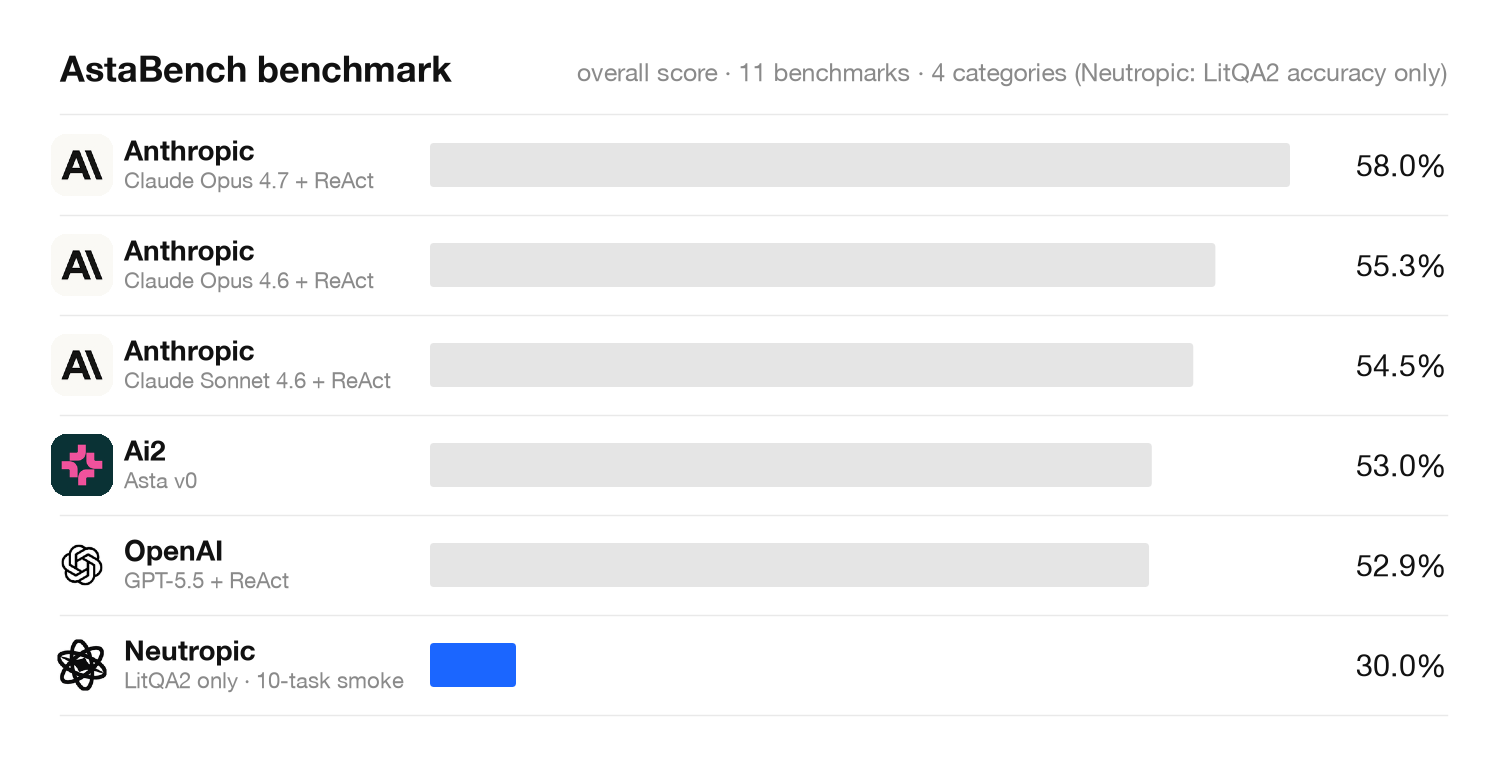
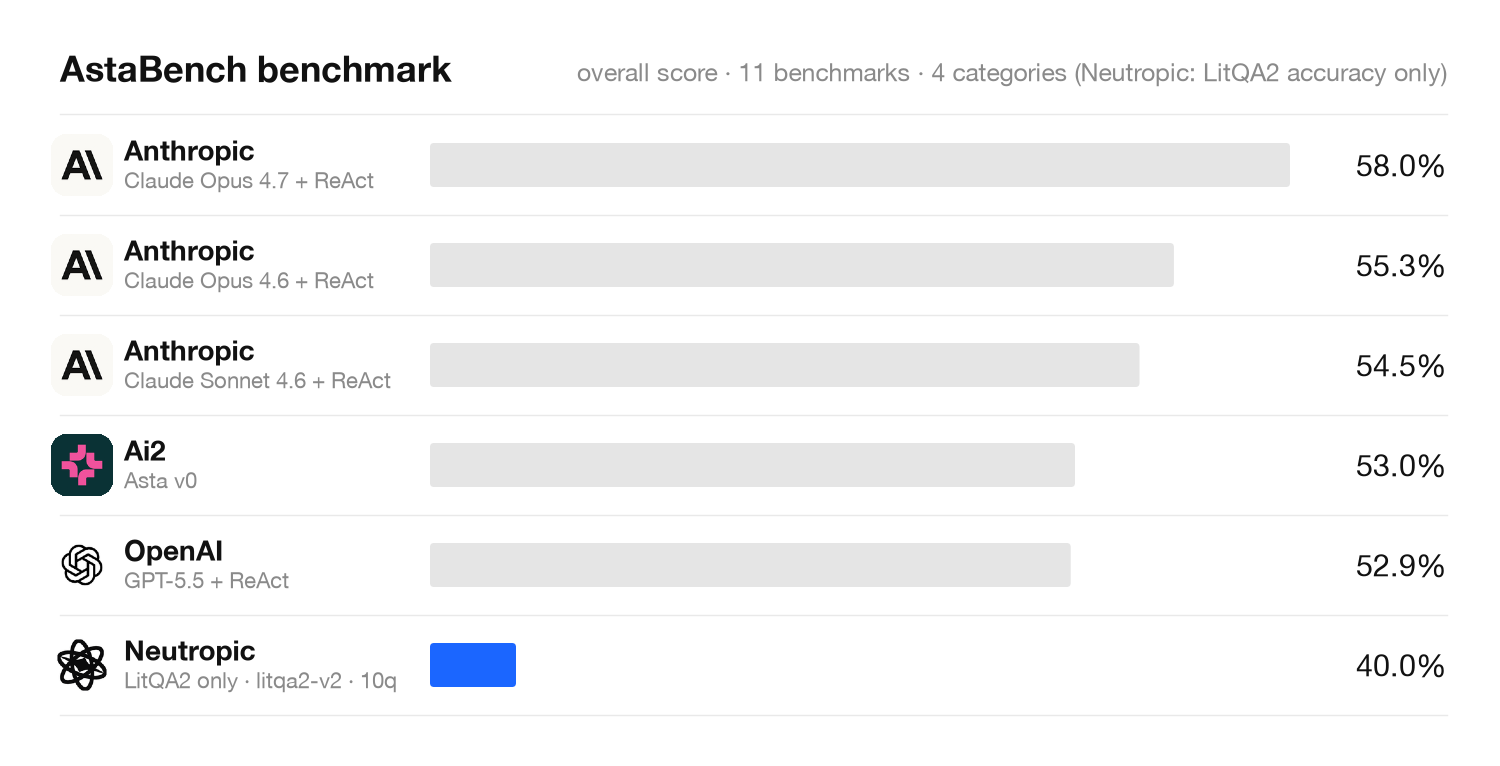
Add AstaBench Results

diff --git a/astabench/results/litqa2-v2/README.md b/astabench/results/litqa2-v2/README.md
@@ -1,0 +1,22 @@
+# litqa2-v2 — 10-question smoke (custom-tools track, 2026-09-17)
+
+Same 10 public-split LitQA2 questions as `litqa2-smoke10`, production core with the **exact-term probe** (improvement-plan A2: the question's distinctive terms — strain, gene, mutation, technique — are searched as exact phrases through the paper fan-out and Europe PMC directly; the top open-access PMC full texts are read and the passages around the question/option terms are injected before the model acts) and `fetch_page` serving Europe PMC full text for PMC/DOI links. Solver capped at 14 steps per question (the first attempt without a cap ran 48 steps / 25 min / $1.28 on Q1 and was stopped).
+
+| id | question | answer | result |
+|---|---|---|---|
+| 27234279 | Approximately how many unique transposable element insertion loci are there in the mandari | C | insufficient |
+| 2c05315d | Are enhancer and promoter sequences broadly compatible in human cells, and is this the sam | E | correct (sure) |
+| 39129e1c | Among Cas9-disrupted loci in human neural stem cells, what fraction of disruption phenotyp | B | correct (sure) |
+| 517e7cf8 | Approximately what percentage of Drosophila with a H3.3K36R mutation finish developing and | E | insufficient |
+| 5c4c602c | At which amino acid position is a large oligosaccharide density observed in the cryo-EM ma | D | correct (sure) |
+| 76184ccf | Active olfactory receptor genes increase their contacts with greek island regions by what  | D | insufficient |
+| c9bdb9b5 | Based on experiments done in cohorts of mice injected with B16-F10 melanoma cells expressi | D | insufficient |
+| cb710074 | Approximately what percentage of adr-1(-), adr-2(-), and adr-1(-);adr-2(-) mutant C. elega | F | insufficient |
+| e3b5a4af | Acinetobacter lwoffii has been evolved in the lab to be resistant to which of these antibi | D | insufficient |
+| e6b0f9e5 | Based on single-nuclei RNA sequencing data, myotendinous junction myonuclei are enriched f | E | correct (sure) |
+
+**accuracy 0.40 · precision 1.00 · coverage 0.40** (litqa2-smoke10: 0.30 / 1.00 / 0.30). $2.49 · 49 min for 10 questions (27 s – 10.5 min each).
+
+Where the six 'insufficient' answers came from (model justifications in the eval log): four found the right paper (Salzler 2023 / Brown 2024 for H3.3K36R, Monahan 2019 for Greek islands, Wang 2024 for B16-F10, Dhakal 2024 for adr-1/adr-2) but said the exact figure was 'in the full-text figures, not the accessible text' — tool observations over 4,000 characters are spilled to a file, so `fetch_page` on a 60k-character paper showed only the introduction; one (Acinetobacter lwoffii) answered from prior knowledge in 27 s without searching, before the probe (which runs at plan time, after the first search) could fire; one (Citrus reticulata TE loci) found the pangenome papers but not the count. Fixes for the next run: probe runs on the first step before any search; `fetch_page(url, query=…)` returns the passages around the query terms; excerpts include neighbouring sentences and favour numeric sentences for numeric questions.
+
+Files: `litqa2-notools.eval` (Inspect log, samples with justifications), `scores.json`.

diff --git a/README.md b/README.md
@@ -26,7 +26,7 @@ together track the agent's maturity from factual search to end-to-end science:
 > | SimpleQA | 0.90 accuracy (subset 100) | 95.3 % |
 > | ReportBench | recall **0.070** · precision 0.287 · F1 0.109 (rb-v5, 10 tasks, date window + snowballing; rb-v3 0.033 / 0.182) | recall 0.036 (Gemini DR) · precision 0.385 (OpenAI DR) |
 > | DeepResearch Bench II | **22.2 official GPT-5.5 judge** (dr-v7; dr-v11 21.2 flat; dr-v1 13.6) | 64.38 |
-> | AstaBench | LitQA2 accuracy 0.30 (10 questions, 1 of 11 tasks) | overall 58.0 % |
+> | AstaBench | LitQA2 accuracy **0.40** (litqa2-v2, 10 questions, 1 of 11 tasks; v1 0.30) | overall 58.0 % |
 
 ## Notes
 
@@ -247,10 +247,11 @@ Leaderboard reference points (Ai2, 2026-04 update):
 
 | Run | Task | Track | n | Accuracy | Precision | Coverage | $/item | s/item |
 |-----|------|-------|---|----------|-----------|----------|--------|--------|
-| [`litqa2-smoke10`](./astabench/results/litqa2-smoke10/) | `litqa2` (LAB-bench, public split) | custom tools (Neutropic retrieval) | 10 | **0.30** | 1.00 | 0.30 | 0.22 | 123 |
+| [`litqa2-smoke10`](./astabench/results/litqa2-smoke10/) | `litqa2` (LAB-bench, public split) | custom tools (Neutropic retrieval) | 10 | 0.30 | 1.00 | 0.30 | 0.22 | 123 |
+| [`litqa2-v2`](./astabench/results/litqa2-v2/) | same 10 questions | + exact-term probe (phrase search + PMC full text), 14-step cap | 10 | **0.40** | 1.00 | 0.40 | 0.25 | 295 |
 
 - Run through the official `asta-bench` harness (Inspect) with the official `score_litqa2` scorer; Neutropic is wrapped as an Inspect solver that calls the headless solve service (`astabench/runner/solver/`).
-- Every sure answer was correct (precision 1.0); the agent answered "Insufficient information" on 6 of 10 questions whose key paper its searches did not surface, and one reply lacked the final-letter line. Not comparable to the overall leaderboard score; the validation split (gated HF dataset) and the standard-tools track (`ASTA_TOOL_KEY`) are still to do.
+- Every sure answer was correct (precision 1.0). litqa2-v2 (2026-09-17): the exact-term probe surfaces the key paper in most questions, but four of the six remaining "insufficient" answers said the figure was in the full text the tool could not show — tool observations over 4,000 characters are spilled, so a 60k-character paper appeared as its introduction; fixed for the next run with `fetch_page(url, query=…)` passage selection and a probe that runs before the first search. In litqa2-smoke10 the agent answered "Insufficient information" on 6 of 10 questions whose key paper its searches did not surface, and one reply lacked the final-letter line. Not comparable to the overall leaderboard score; the validation split (gated HF dataset) and the standard-tools track (`ASTA_TOOL_KEY`) are still to do.
 
 ### Projected — next runs
 

diff --git a/astabench/results/README.md b/astabench/results/README.md
@@ -1,5 +1,6 @@
-One 10-question LitQA2 smoke so far (custom-tools track, public split). Planned per category: `asta-lit-v1` → `asta-data-v1` → `asta-code-v1` → `asta-e2e-v1`, each as agent-eval logs plus a `scores.json`. Validation split during development; test split only for leaderboard submission. See [../../README.md](../../README.md) for projected targets.
+Two 10-question LitQA2 smokes so far (`litqa2-smoke10`, `litqa2-v2`) (custom-tools track, public split). Planned per category: `asta-lit-v1` → `asta-data-v1` → `asta-code-v1` → `asta-e2e-v1`, each as agent-eval logs plus a `scores.json`. Validation split during development; test split only for leaderboard submission. See [../../README.md](../../README.md) for projected targets.
 
 | Run | Date | Task | Notes |
 |-----|------|------|-------|
 | `litqa2-smoke10` | 2026-09-13 | `litqa2` (public split, no Asta tools) | 10 questions via the Neutropic solve service — accuracy 0.30, precision 1.00, coverage 0.30, $2.18 · 20 min. Custom-tools track; not a leaderboard result. |
+| `litqa2-v2` | 2026-09-17 | `litqa2` (public split, no Asta tools) | same 10 questions with the exact-term probe (phrase search + Europe PMC full text) and a 14-step cap — accuracy 0.40, precision 1.00, coverage 0.40, $2.49 · 49 min. Four of six 'insufficient' answers had the right paper but could not see the figure (4k-character tool-output spill); fixed next. |
